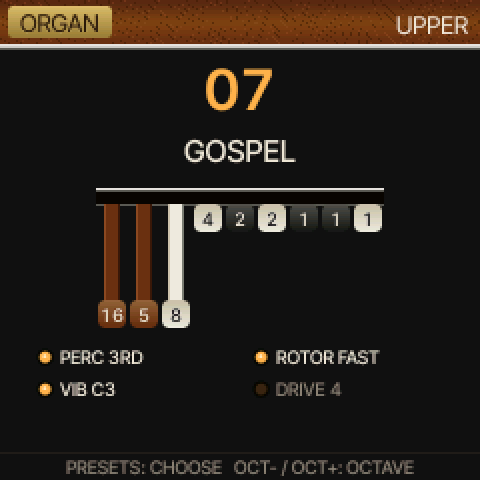
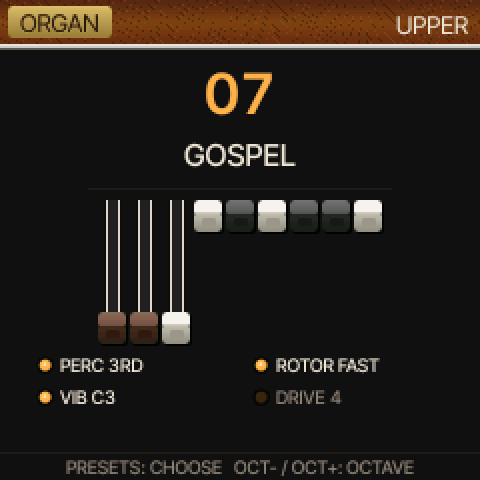
UI mock-ups: drawbars, rocker tabs and the rotary slide switch after the owner's references
The drawbars as on the console (dark stem, light rails, the numbers 8..1, a block cap with a lit top face and a finger
notch; the footages under the row, the mutations' fractions on a second line), the toggles as tall cream rocker tabs
(upper word, function, lower word; the pressed half darker), the rotary's SLOW / STOP / FAST and the horn's character as
slide switches with a glossy ball on an engraved plate. ORGAN.md records the references.

Claude-Session: https://claude.ai/code/session_01THRMZxJPVE8PQUSr8MNsNk

Changed region(s): [[0.0625, 0.2812, 0.8125, 0.8438], [0.5312, 0.7188, 0.8125, 0.8438], [0.4062, 0.125, 0.5625, 0.25]]

diff --git a/tools/ui_mockups.c b/tools/ui_mockups.c
@@ -194,61 +194,98 @@ static void footer(const char *s)
 }
 
 /* the drawbars' colours by footage, as on the console: brown 16' 5 1/3', white the octaves, black the mutations */
-static const char *const FOOT_A[9] = {"16", "5", "8", "4", "2", "2", "1", "1", "1"};
-static const char *const FOOT_B[9] = {"", "1/3", "", "", "2/3", "", "3/5", "1/3", ""};
+static const char *const FOOT[9] = {"16'", "5", "8'", "4'", "2", "2'", "1", "1", "1'"};
+static const char *const FRAC[9] = {"", "1/3", "", "", "2/3", "", "3/5", "1/3", ""};   /* (the mutations' fractions, a line below) */
 static int32_t bar_kind(int32_t k) { return k < 2 ? 0 : (k == 4 || k == 6 || k == 7) ? 2 : 1; }   /* 0 brown 1 white 2 black */
 
-/* one drawbar hanging from the slot at y0: its stem out by `v` (0..8) steps of `step` px with the numbers on it, the cap */
+/* one drawbar hanging under the wood at y0, as on the console: a dark stem with two light rails and the numbers v .. 1 on
+ * it (v = how far it is pulled, 0..8, `step` px each), then the cap: a block with a lit top face and a darker front with
+ * its finger notch. The cap's colour by footage (brown, white, black); its footage engraved small on the top face */
 static void drawbar(int32_t cx, int32_t y0, int32_t v, int32_t step, int32_t w, int32_t k, int hot, int compact)
 {
-    static const uint16_t BODY[3] = {C_BROWN, C_WHITE, C_BLACK}, EDGE[3] = {C_BROWN2, C_WHITE2, C_BLACK2},
-                          NUM[3] = {C_CREAM, C_BLACK, C_CREAM};
-    int32_t kind = bar_kind(k), sw = w - 6, x = cx - sw / 2, len = v * step, capw = w, caph = compact ? 14 : 20, i;
+    static const uint16_t TOP[3] = {RGB565(0x7a, 0x52, 0x46), RGB565(0xf4, 0xf1, 0xea), RGB565(0x5a, 0x5a, 0x5a)},
+                          FRONT[3] = {RGB565(0x4c, 0x2c, 0x24), RGB565(0xc4, 0xc0, 0xb6), RGB565(0x2c, 0x2c, 0x2c)},
+                          NOTCH[3] = {RGB565(0x30, 0x1a, 0x14), RGB565(0x9a, 0x96, 0x8e), RGB565(0x18, 0x18, 0x18)},
+                          ENGR[3] = {RGB565(0xc8, 0xa8, 0x98), RGB565(0x6a, 0x66, 0x5e), RGB565(0xa8, 0xa8, 0xa8)};
+    int32_t kind = bar_kind(k), sw = w * 2 / 3, x = cx - sw / 2, len = v * step, caph = compact ? 16 : 28, ct = caph * 11 / 20, i;
     char n[2] = {0, 0};
-    if (len) {
-        cv_rect(x, y0, sw, len, BODY[kind]);
-        cv_rect(x, y0, 1, len, EDGE[kind]);
-        cv_rect(x + sw - 1, y0, 1, len, mix(BODY[kind], C_SLOT, 120));
-        for (i = 1; i <= v && !compact; i++) {                /* the numbers 1..8 on the stem */
-            n[0] = (char)('0' + i);
-            ctext(cx, y0 + (i - 1) * step + (step - 7) / 2, &AF_X, n, NUM[kind], BODY[kind]);
-            cv_rect(x + 2, y0 + i * step - 1, sw - 4, 1, mix(BODY[kind], NUM[kind], 60));
+    if (len) {                                                /* the stem */
+        cv_rect(x, y0, sw, len, RGB565(0x24, 0x22, 0x20));
+        cv_rect(x + 1, y0, 1, len, RGB565(0xd8, 0xd4, 0xcc));
+        cv_rect(x + sw - 2, y0, 1, len, RGB565(0xd8, 0xd4, 0xcc));
+        cv_rect(x, y0, 1, len, RGB565(0x10, 0x0f, 0x0e));
+        cv_rect(x + sw - 1, y0, 1, len, RGB565(0x10, 0x0f, 0x0e));
+        for (i = 0; i < v && !compact; i++) {                 /* v at the top .. 1 above the cap */
+            n[0] = (char)('0' + v - i);
+            ctext(cx, y0 + i * step + (step - 7) / 2, &AF_X, n, RGB565(0xe8, 0xe4, 0xdc), RGB565(0x24, 0x22, 0x20));
         }
     }
-    rrect_v(cx - capw / 2, y0 + len, capw, caph, 3, mix(EDGE[kind], C_CREAM, kind == 1 ? 0 : 40), BODY[kind]);
-    if (hot)
-        rrect(cx - capw / 2 - 2, y0 + len + caph + 2, capw + 4, 2, 1, C_ORANGE);
-    if (!compact) {                                           /* the footage engraved on the cap */
-        ctext(cx, y0 + len + (FOOT_B[k][0] ? 3 : 6), &AF_X, FOOT_A[k], NUM[kind], BODY[kind]);
-        if (FOOT_B[k][0])
-            ctext(cx, y0 + len + 11, &AF_X, FOOT_B[k], NUM[kind], BODY[kind]);
-    } else {
-        ctext(cx, y0 + len + 4, &AF_X, FOOT_A[k], NUM[kind], BODY[kind]);
+    {   /* the cap: a shadow, the lit top face, the front, the notch */
+        int32_t xc = cx - w / 2, yc = y0 + len;
+        rrect(xc + 1, yc + 1, w, caph, 2, RGB565(0x06, 0x05, 0x05));
+        rrect_v(xc, yc, w, ct, 2, mix(TOP[kind], RGB565(0xff, 0xff, 0xff), 40), TOP[kind]);
+        rrect_v(xc, yc + ct - 2, w, caph - ct + 2, 2, FRONT[kind], mix(FRONT[kind], RGB565(0, 0, 0), 60));
+        cv_rect(xc + 1, yc + ct - 2, w - 2, 1, mix(FRONT[kind], RGB565(0xff, 0xff, 0xff), 50));
+        rrect(cx - w / 4, yc + ct + 1, w / 2, caph - ct - 4, 1, NOTCH[kind]);
+        (void)ENGR;
+        if (hot)
+            rrect(xc - 1, yc + caph + 3, w + 2, 2, 1, C_ORANGE);
     }
 }
-/* the black slot the bars come out of, with its chrome lips */
+/* the shadow the wood rail casts on the black panel, where the bars come out */
 static void bar_slot(int32_t x, int32_t y, int32_t w)
 {
-    cv_rect(x, y, w, 6, C_SLOT);
-    chrome(x, y - 2, w, 2);
-    cv_rect(x, y + 6, w, 1, C_CHR_LO);
+    int32_t j;
+    for (j = 0; j < 5; j++)
+        cv_rect(x, y + j, w, 1, mix(RGB565(0x02, 0x02, 0x02), C_PANEL, j * 50));
 }
 
-/* a rocker tab (the console's white stop tabs): `down` = its lower half pressed in; two lines of engraved text */
-static void tab(int32_t x, int32_t y, int32_t w, int32_t h, const char *l1, const char *l2, int down, int hot)
+/* a rocker tab as on the console: tall, cream, the upper word, the function in the middle, the lower word; `up` = the
+ * upper half pressed in (that word is the one in force, drawn dark, the other grey); the pressed half darker */
+static void tab3(int32_t x, int32_t y, int32_t w, int32_t h, const char *top, const char *m1, const char *m2, const char *bot,
+                 int up, int hot)
 {
-    rrect(x - 1, y - 1, w + 2, h + 2, 4, hot ? C_ORANGE : C_SLOT);
-    if (down)
-        rrect_v(x, y, w, h, 3, C_TAB, C_TABDN);
-    else
-        rrect_v(x, y, w, h, 3, C_TABDN, C_TAB);
-    if (!l2[0]) {                                             /* one line: centred */
-        ctext(x + w / 2, y + (h - 7) / 2, &AF_X, l1, C_BLACK, mix(C_TAB, C_TABDN, 128));
-        return;
+    uint16_t lit = RGB565(0xf0, 0xec, 0xe0), mid = RGB565(0xd2, 0xcc, 0xbe), dark = RGB565(0xa8, 0xa2, 0x94), ink = RGB565(0x2a, 0x28, 0x24),
+             off = RGB565(0x8a, 0x86, 0x7e);
+    int32_t hh = h / 2;
+    rrect(x - 3, y - 3, w + 6, h + 6, 4, hot ? C_ORANGE : RGB565(0x06, 0x06, 0x06));
+    rrect(x - 1, y - 1, w + 2, h + 2, 3, RGB565(0x30, 0x2e, 0x2a));
+    rrect_v(x, y, w, hh + 2, 3, up ? dark : lit, up ? mid : mid);         /* the upper half */
+    rrect_v(x, y + hh, w, h - hh, 3, up ? mid : mid, up ? lit : dark);    /* the lower half */
+    ctext(x + w / 2, y + 6, &AF_X, top, up ? ink : off, up ? dark : lit);
+    if (m2[0]) {
+        ctext(x + w / 2, y + hh - 10, &AF_X, m1, ink, mid);
+        ctext(x + w / 2, y + hh + 2, &AF_X, m2, ink, mid);
+    } else {
+        ctext(x + w / 2, y + hh - 4, &AF_X, m1, ink, mid);
     }
-    ctext(x + w / 2, y + 6, &AF_X, l1, C_BLACK, down ? C_TAB : C_TABDN);
-    ctext(x + w / 2, y + 17, &AF_X, l2, C_BLACK, down ? mix(C_TAB, C_TABDN, 128) : C_TAB);
+    ctext(x + w / 2, y + h - 13, &AF_X, bot, up ? off : ink, up ? lit : dark);
 }
+
+/* a slide switch on an engraved grey plate (the rotary speaker's SLOW STOP FAST, the horn's character): a glossy black
+ * ball in a slot, the positions' names below; pos 0 .. n-1 */
+static void slide_switch(int32_t x, int32_t y, int32_t w, const char *title, const char *const *names, int32_t n, int32_t pos, int hot)
+{
+    uint16_t plate = RGB565(0x3c, 0x3a, 0x37), plate2 = RGB565(0x2c, 0x2a, 0x28), engr = RGB565(0xb8, 0xb4, 0xac);
+    int32_t h = 58, sx0 = x + 22, sx1 = x + w - 22, sy = y + 30, k, bx;
+    rrect(x - 2, y - 2, w + 4, h + 4, 5, hot ? C_ORANGE : RGB565(0x08, 0x08, 0x08));
+    rrect_v(x, y, w, h, 4, plate, plate2);
+    cv_rect(x + 3, y + 1, w - 6, 1, RGB565(0x5a, 0x58, 0x54));
+    ctext(x + w / 2, y + 5, &AF_S, title, engr, plate);
+    rrect(sx0 - 8, sy - 7, sx1 - sx0 + 16, 14, 7, RGB565(0x14, 0x13, 0x12));          /* the slot */
+    rrect(sx0 - 6, sy - 1, sx1 - sx0 + 12, 2, 1, RGB565(0x6c, 0x6a, 0x66));
+    for (k = 0; k < n; k++) {
+        int32_t lx = sx0 + (sx1 - sx0) * k / (n - 1);
+        ctext(lx, y + h - 13, &AF_X, names[k], k == pos ? C_AMBER : engr, mix(plate, plate2, 200));
+    }
+    bx = sx0 + (sx1 - sx0) * pos / (n - 1);
+    disc(bx + 1, sy + 2, 11, RGB565(0x05, 0x05, 0x05));                               /* the ball: shadow, body, gloss */
+    disc(bx, sy, 11, RGB565(0x1c, 0x22, 0x20));
+    disc4(4 * bx - 2, 4 * sy - 2, 4 * 8, RGB565(0x2c, 0x34, 0x31));
+    disc4(4 * bx - 10, 4 * sy - 12, 4 * 4, RGB565(0x7a, 0x86, 0x82));
+    disc4(4 * bx - 12, 4 * sy - 14, 6, RGB565(0xd8, 0xe4, 0xe0));
+}
+
 /* a chickenhead knob with a chrome skirt (the vibrato selector, the amplifier's knobs): pointer angle in degrees, 0 = up */
 static void knob(int32_t cx, int32_t cy, int32_t r, int32_t deg, int hot)
 {
@@ -286,35 +323,43 @@ static void lamp(int32_t x, int32_t y, const char *label, int on)
 /* ------------------------------------------------------------ screens --- */
 static const int8_t REG[9] = {8, 8, 8, 0, 0, 0, 0, 0, 0};    /* the patch shown: a classic gospel registration */
 
+/* a row of drawbars under the wood: `n` bars from footage k0, the hot ones (the knobs' four) marked, their footages below */
+static void bar_row(int32_t x0, int32_t pitch, int32_t w, int32_t step, const int8_t *v, int32_t k0, int32_t n, int32_t hot0,
+                    int32_t ylab)
+{
+    int32_t i;
+    bar_slot(x0 - pitch / 2, 26, pitch * n);
+    for (i = 0; i < n; i++) {
+        int32_t cx = x0 + i * pitch, hot = i >= hot0 && i < hot0 + 4;
+        drawbar(cx, 26, v[i], step, w, k0 + i, hot, 0);
+        ctext(cx, ylab, &AF_X, FOOT[k0 + i], hot ? C_ORANGE : C_DIM, C_PANEL);
+        if (FRAC[k0 + i][0])
+            ctext(cx, ylab + 9, &AF_X, FRAC[k0 + i], hot ? C_ORANGE : C_DIM, C_PANEL);
+    }
+}
+
 static void scr_drawbars(void)
 {
-    int32_t k, x0 = 12, pitch = 24;
     static const int8_t R[9] = {8, 8, 8, 6, 0, 0, 0, 0, 4};
     header("UPPER", "07 GOSPEL");
-    bar_slot(4, 34, 232);
-    for (k = 0; k < 9; k++)
-        drawbar(x0 + 4 + k * pitch, 40, R[k], 16, 20, k, k >= 2 && k <= 5, 0);
-    for (k = 2; k <= 5; k++) {                                /* the four the knobs move, numbered over the slot */
-        char n[2] = {(char)('1' + k - 2), 0};
-        ctext(x0 + 4 + k * pitch, 27, &AF_X, n, C_ORANGE, C_PANEL);
-    }
-    ctext(120, 206, &AF_N, "888 6000 4", C_CREAM, C_PANEL);
-    footer("KNOBS: BARS 3-6   SELECT: MOVE THE FOUR");
+    bar_row(20, 25, 22, 15, R, 0, 9, 2, 180);
+    ctext(120, 203, &AF_N, "888 6000 4", C_CREAM, C_PANEL);
+    footer("KNOBS: THE FOUR MARKED   SELECT: MOVE THEM");
 }
 
 static void scr_home(void)
 {
     int32_t k;
     header("ORGAN", "UPPER");
-    ctext(120, 34, &AF_L, "07", C_AMBER, C_PANEL);
-    ctext(120, 70, &AF_M, "GOSPEL", C_CREAM, C_PANEL);
-    bar_slot(48, 96, 144);
+    ctext(120, 36, &AF_L, "07", C_AMBER, C_PANEL);
+    ctext(120, 72, &AF_M, "GOSPEL", C_CREAM, C_PANEL);
+    cv_rect(44, 94, 152, 1, C_PANEL2);
     for (k = 0; k < 9; k++)
-        drawbar(56 + k * 16, 102, REG[k], 6, 14, k, 0, 1);
-    lamp(22, 178, "PERC 3RD", 1);
-    lamp(22, 194, "VIB C3", 1);
-    lamp(130, 178, "ROTOR FAST", 1);
-    lamp(130, 194, "DRIVE 4", 0);
+        drawbar(56 + k * 16, 100, REG[k], 7, 14, k, 0, 1);
+    lamp(22, 182, "PERC 3RD", 1);
+    lamp(22, 198, "VIB C3", 1);
+    lamp(130, 182, "ROTOR FAST", 1);
+    lamp(130, 198, "DRIVE 4", 0);
     footer("PRESETS: CHOOSE   OCT- / OCT+: OCTAVE");
 }
 
@@ -323,66 +368,39 @@ static void scr_percvib(void)
     static const char *const L[6] = {"V1", "C1", "V2", "C2", "V3", "C3"};
     int32_t k;
     header("PERC / VIB", "07 GOSPEL");
-    ltext(10, 33, &AF_X, "PERCUSSION", C_DIM, C_PANEL);
-    cv_rect(66, 36, 166, 1, C_PANEL2);
-    tab(8, 44, 52, 30, "PERC", "ON", 1, 1);
-    tab(66, 44, 52, 30, "VOLUME", "SOFT", 0, 0);
-    tab(124, 44, 52, 30, "DECAY", "FAST", 1, 0);
-    tab(182, 44, 52, 30, "HARMONIC", "THIRD", 1, 0);
-    ltext(10, 94, &AF_X, "VIBRATO", C_DIM, C_PANEL);
-    cv_rect(54, 97, 178, 1, C_PANEL2);
-    tab(8, 108, 52, 30, "VIBRATO", "UPPER", 1, 0);
-    tab(66, 108, 52, 30, "VIBRATO", "LOWER", 0, 0);
+    tab3(10, 36, 48, 74, "ON", "PERCUS-", "SION", "OFF", 1, 1);
+    tab3(68, 36, 48, 74, "SOFT", "PERC", "VOLUME", "NORMAL", 0, 0);
+    tab3(126, 36, 48, 74, "FAST", "PERC", "DECAY", "SLOW", 1, 0);
+    tab3(184, 36, 48, 74, "THIRD", "PERC", "HARM", "SECOND", 1, 0);
+    tab3(10, 130, 48, 74, "ON", "VIBRATO", "UPPER", "OFF", 1, 0);
+    tab3(68, 130, 48, 74, "ON", "VIBRATO", "LOWER", "OFF", 0, 0);
     {   /* the scanner's selector: V1 C1 V2 C2 V3 C3 around a chickenhead knob, pointing at C3 */
-        int32_t cx = 180, cy = 150, r = 34;
+        int32_t cx = 178, cy = 172, r = 34;
+        ctext(cx, 126, &AF_X, "VIBRATO & CHORUS", C_DIM, C_PANEL);
         for (k = 0; k < 6; k++) {
             int32_t a = -100 + 40 * k, tx = cx + (r * sin8(a) >> 8), ty = cy - (r * cos8(a) >> 8);
             ctext(tx, ty - 3, &AF_X, L[k], k == 5 ? C_AMBER : C_CREAM, C_PANEL);
         }
         knob(cx, cy, 18, 100, 0);
     }
-    footer("KNOBS: THE TABS   ALGO: SELECTOR");
+    footer("KNOBS: THE FOUR TABS   ALGO: SELECTOR");
 }
 
 static void scr_rotary(void)
 {
+    static const char *const SPD[3] = {"SLOW", "STOP", "FAST"}, *const HORN[3] = {"DEFAULT", "MELLOW", "SHARP"};
     header("ROTARY", "07 GOSPEL");
-    {   /* the half-moon switch: SLOW left, FAST right, the lever thrown to FAST */
-        int32_t cx = 120, cy = 92, r = 40, x, y;
-        for (y = cy - r; y <= cy; y++)                         /* the half disc */
-            for (x = cx - r; x <= cx + r; x++) {
-                int32_t a, b, n = 0;
-                for (b = 0; b < 4; b++)
-                    for (a = 0; a < 4; a++) {
-                        int32_t dx = 4 * x + a - 4 * cx - 2, dy = 4 * y + b - 4 * cy - 2;
-                        n += dx * dx + dy * dy <= 16 * r * r && dy <= 0;
-                    }
-                px_blend(x, y, mix(C_BLACK2, C_BLACK, (cy - y) * 256 / r), n * 16);
-            }
-        chrome(cx - r - 4, cy + 1, 2 * r + 8, 3);
-        thick(4 * cx + 2, 4 * cy - 2, 4 * (cx + 28) + 2, 4 * (cy - 22), 7, C_CHR);
-        disc(cx + 28, cy - 22, 5, C_CHR_HI);
-        disc(cx, cy - 1, 4, C_CHR_LO);
-        rtext(cx - r - 8, cy - 12, &AF_S, "SLOW", C_DIM, C_PANEL);
-        ltext(cx + r + 8, cy - 12, &AF_S, "FAST", C_AMBER, C_PANEL);
-    }
-    {   /* MODEL and HORN: two rows of tabs, the lit one in */
-        ltext(10, 116, &AF_X, "MODEL", C_DIM, C_PANEL);
-        tab(58, 110, 54, 26, "CLASSIC", "", 1, 1);
-        tab(116, 110, 54, 26, "LIGHT", "", 0, 0);
-        ltext(10, 148, &AF_X, "HORN", C_DIM, C_PANEL);
-        tab(58, 142, 54, 26, "DEFAULT", "", 1, 0);
-        tab(116, 142, 54, 26, "MELLOW", "", 0, 0);
-        tab(174, 142, 54, 26, "SHARP", "", 0, 0);
-    }
+    slide_switch(30, 34, 180, "ROTARY SPEAKER", SPD, 3, 2, 1);
+    tab3(12, 108, 48, 74, "CLASSIC", "MODEL", "", "LIGHT", 1, 0);
+    slide_switch(74, 112, 156, "HORN", HORN, 3, 0, 0);
     {   /* balance: horn against drum */
-        int32_t x = 58, w = 170, v = 60;
-        ltext(10, 186, &AF_X, "BALANCE", C_DIM, C_PANEL);
-        rrect(x, 186, w, 6, 3, C_SLOT);
-        rrect(x, 186, w * v / 100, 6, 3, C_AMBER);
-        disc(x + w * v / 100, 189, 6, C_CHR);
-        ltext(x, 198, &AF_X, "DRUM", C_DIM, C_PANEL);
-        rtext(x + w, 198, &AF_X, "HORN", C_DIM, C_PANEL);
+        int32_t x = 74, w = 154, v = 60;
+        ltext(12, 196, &AF_X, "BALANCE", C_DIM, C_PANEL);
+        rrect(x, 196, w, 6, 3, C_SLOT);
+        rrect(x, 196, w * v / 100, 6, 3, C_AMBER);
+        disc(x + w * v / 100, 199, 6, C_CHR);
+        ltext(x, 208, &AF_X, "DRUM", C_DIM, C_PANEL);
+        rtext(x + w, 208, &AF_X, "HORN", C_DIM, C_PANEL);
     }
     footer("KNOBS: SPEED MODEL HORN BALANCE");
 }
@@ -429,21 +447,19 @@ static void scr_voice(void)
 
 static void scr_lower(void)
 {
-    int32_t k;
-    static const int8_t L[9] = {0, 0, 8, 8, 8, 0, 0, 0, 0};
+    static const int8_t L[9] = {0, 0, 8, 8, 8, 0, 0, 0, 0}, P[2] = {6, 3};
     header("LOWER / PEDAL", "MIDI CH 2 / 3");
-    ltext(8, 31, &AF_X, "LOWER", C_DIM, C_PANEL);
-    bar_slot(4, 44, 170);
-    for (k = 0; k < 9; k++)
-        drawbar(13 + k * 19, 50, L[k], 14, 16, k, k >= 2 && k <= 5, 0);
-    ltext(186, 31, &AF_X, "PEDAL", C_DIM, C_PANEL);
-    bar_slot(182, 44, 54);
-    drawbar(196, 50, 6, 14, 16, 0, 0, 0);
-    {   /* the pedal's 8' bar: a white cap */
-        drawbar(222, 50, 3, 14, 16, 2, 0, 0);
-    }
-    ctext(88, 206, &AF_N, "008 880 000", C_CREAM, C_PANEL);
-    ctext(209, 206, &AF_N, "63", C_CREAM, C_PANEL);
+    bar_row(12, 19, 17, 13, L, 0, 9, 2, 167);
+    bar_slot(184, 26, 52);
+    drawbar(198, 26, P[0], 13, 17, 0, 0, 0);                  /* the pedals: 16' (brown) and 8' (white) */
+    drawbar(222, 26, P[1], 13, 17, 2, 0, 0);
+    ctext(198, 167, &AF_X, "16'", C_DIM, C_PANEL);
+    ctext(222, 167, &AF_X, "8'", C_DIM, C_PANEL);
+    cv_rect(178, 30, 1, 150, C_PANEL2);
+    ctext(88, 190, &AF_X, "LOWER", C_DIM, C_PANEL);
+    ctext(210, 190, &AF_X, "PEDAL", C_DIM, C_PANEL);
+    ctext(88, 205, &AF_N, "008 880 000", C_CREAM, C_PANEL);
+    ctext(210, 205, &AF_N, "63", C_CREAM, C_PANEL);
     footer("SELECT: MOVE THE FOUR   ALGO: PEDAL");
 }
 

diff --git a/ORGAN.md b/ORGAN.md
@@ -166,7 +166,11 @@ edited in a pop-up as FMini-1's FX page did.
 **(owner, 2026-10-21)** The whole interface is drawn after the real console's panel: its look and its controls (drawbars
 with their brown / black / white caps and engraved footages, the rocker tabs of percussion and vibrato, the scanner's
 rotary selector, the wood and the chrome trim, the half-moon rotor switch), not FMini-1's synth panel. The screens are
-mocked up first with the firmware's own drawing code, for the owner's approval, then built in 0.1.0.
+mocked up first with the firmware's own drawing code, for the owner's approval, then built in 0.1.0. The owner's references (2026-10-21):
+the drawbars as on the console (a dark stem with light rails and the numbers 8 .. 1, a block cap with a lit top face and a
+finger notch), the toggles as the console's tall cream rocker tabs (upper word, function, lower word), the rotary speed as
+a slide switch with a glossy black ball on an engraved grey plate (SLOW / STOP / FAST). `tools/ui_mockups.c` draws them;
+`docs/mockups/` holds the current set.
 
 27 keys (F3..G5) with OCT- / OCT+; the upper manual on the keys and MIDI, the lower manual and the pedals on MIDI.
 Pages: DRAWBARS (the nine bars drawn; SELECT moves a window of four, KNOB 1..4 set 0..8 with detents), PERC / VIB, the
